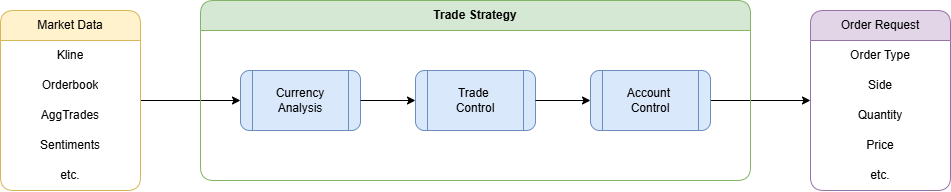
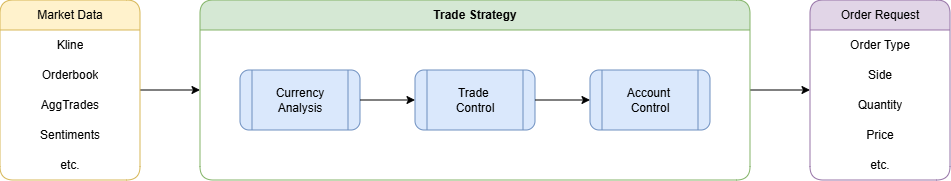
docs: update README - updated trade strategy image, testing functino expression renderings

diff --git a/README.md b/README.md
@@ -99,36 +99,25 @@ The image below shows a simplified diagram of the multiprocessing structure of A
   
 Each of the processes communicate with each other via `IPCAssistant` class defined in the `atmEta_IPC.py` module. Described below is the task and characterstic of each process.
 
-* **Main**  
-Upon the application launch, identifies the system requirements, determine number of simulators and analyzers to generate, configure IPCs, and generate and start processes.
+| Process                | Tasks |
+| :---:                  | :---: |
+| Main                   | Upon the application launch, identifies the system requirements, determine number of simulators and analyzers to generate, configure IPCs, and generate and start processes. |
+| GUI Manager            | Manages graphics and audio resources, interaction objects, and display objects to serve as a hub connecting the user and teh manage processes. |
+| Binance API Manager    | Responsible for market data fetch, stream connection, order placement, API rate-limit management, etc. It is one of the most vital parts of this application. |
+| Data Manager           | Keeps track of local market, account, simulation, and neural network data. Enables other managers to easily perform CRUD operations with the local DB. |
+| Trade Manager          | Manages all the tasks related to trading. These tasks include account connection (through the Binance API Manager), currency analysis and trade configuration management, trade logic determination, analyzer allocation, etc. |
+| Analyzer               |   |
+| Simulation Manager     | Manages all the simulation processes and history. |
+| Simulator              |  |
+| Neural Network Manager | It enables users to configure, initialize, and train models on historical market data which can later be imported by `Analyzers` or `Simulators` to provide an additional reference of market analysis. |
 
-* **GUI Manager**  
-Manages graphics and audio resources, interaction objects, and display objects to serve as a hub connecting the user and teh manage processes.
 
-* **Binance API Manager**  
-Responsible for market data fetch, stream connection, order placement, API rate-limit management, etc. It is one of the most vital parts of this application.
-
-* **Data Manager**  
-Keeps track of local market, account, simulation, and neural network data. Enables other managers to easily perform CRUD operations with the local DB.
-
-* **Trade Manager**  
-Manages all the tasks related to trading. These tasks include account connection (through the Binance API Manager), currency analysis and trade configuration management, trade logic determination, analyzer allocation, etc.
-
-* **Analyzer**  
-The number of analyzers are determined by the **main process** depending on the number of CPU cores and by the `ASRatio` in the `programConfig.config` file.  
-`number of analyzers = (number of CPU cores - 8) * ASRatio`  
+This is an experimental neural network module to examine any possible effectiveness of neural network models in trading. 
 When the user adds a currency analysis, the analysis task is allocated to the most relevant or free analyzer process by the **Trade Manager**. The analyzer then request market data from the **Binance API Manager** and **Data Manager**, perform analysis, and dispatch generated `PIP (Potential Investment Plan)` signals to the **Trade Manager**.
 
-* **Simulation Manager**  
-Manages all the simulation processes and history. When the user configures a simulation setup and sends a queue append request, **simulation manager** reformats the configuration, allocate the task to the most appropriate simulator process, and keeps track of the task process until complete.
-
-* **Simulator**  
-The number of simulators are determined by the **main process** depending on the number of CPU cores and by the `ASRatio` in the `programConfig.config` file (same as with analyzers, but inversly proportional).  
-`number of simulators = (number of CPU cores - 8) * (1 - ASRatio)`   
-dsad
-
-* **Neural Network Manager**  
-This is an experimental neural network module to examine any possible effectiveness of neural network models in trading. It enables users to configure, initialize, and train models on historical market data which can later be imported by `Analyzers` or `Simulators` to provide an additional reference of market analysis.
+The number of analyzers and simulators are determined by the number of CPU cores and `ASRatio` in the `programConfig.config` file.
+$$\text{Number of Analyzers}  = (\text{Number of CPU cores} - 8) \times \text{ASRatio}$$
+$$\text{Number of Simulators} = (\text{Number of CPU cores} - 8) \times (1 - \text{ASRatio})$$
 
 ---
 
@@ -487,20 +476,20 @@ Once the program starts, a GUI window will open up letting the user to nagivate 
       <br>
 
       2\. Configure currency analysis parameters.  
-      3\. Name the configuration and add (If left unnamed, it will be automatically generated in an indexed format).
+      3\. Name the configuration and add (If left unnamed, it will be automatically generated in an indexed format).  
       <img src="./docs/feat2_2.png">
       <br>
 
       4\. Select a position to generate analysis on from the market.
-      5\. Name the currency analysis instance and add (If left unnamed, it will be automatically generated in an indexed format).
+      5\. Name the currency analysis instance and add (If left unnamed, it will be automatically generated in an indexed format).  
       <img src="./docs/feat2_3.png">
       <br>
 
-      6\. View the list of currency analysis instances. To view the chart, click the ***VIEW CURRENCY ANALYSIS CHART*** button.
+      6\. View the list of currency analysis instances. To view the chart, click the ***VIEW CURRENCY ANALYSIS CHART*** button.  
       <img src="./docs/feat2_4.png">
       <br>
 
-      7\. View the selected currency analysis.
+      7\. View the selected currency analysis.  
       <img src="./docs/feat2_5.png">
       <br>
 
@@ -510,11 +499,11 @@ Once the program starts, a GUI window will open up letting the user to nagivate 
     <Summary><b><i> Adding a Trade Control Configuration </b></i></Summary>
       Adding a currency analysis requires a CAC and a target position.
 
-      1\. Navigate to AutoTrade page.
+      1\. Navigate to AutoTrade page.  
       <img src="./docs/feat3_1.png">
       <br>
 
-      2\. Configure trade control parameters, name the configuration, and add (If left unnamed, it will be automatically generated in an indexed format).
+      2\. Configure trade control parameters, name the configuration, and add (If left unnamed, it will be automatically generated in an indexed format).  
       <img src="./docs/feat3_2.png">
       <br>
 
@@ -523,21 +512,21 @@ Once the program starts, a GUI window will open up letting the user to nagivate 
   * <Details>
     <Summary><b><i> Backtesting & Results </b></i></Summary>
 
-      1\. Navigate to Simulation page.
+      1\. Navigate to Simulation page.  
       <img src="./docs/feat4_1.png">
       <br>
 
       2\. Determine simulation name and range (If left unnamed, it will be automatically generated in an indexed format).  
       Once all the configurations are completed, click the ***ADD*** button (Once step 3 and 4 are done).  
-      Once the simulation is completed, move to ***SIMULATION RESULT*** page either by pressing the ***VIEW RESULT*** button in the section or by navigating from **DASHBOARD**.
-      3\. Determine position-wise trade strategies; currency analysis, trade control, and account control.
-      4\. Determine account-wise parameters.
+      Once the simulation is completed, move to ***SIMULATION RESULT*** page either by pressing the ***VIEW RESULT*** button in the section or by navigating from **DASHBOARD**.  
+      3\. Determine position-wise trade strategies; currency analysis, trade control, and account control.  
+      4\. Determine account-wise parameters.  
       <img src="./docs/feat4_2.png">
       <br>
 
-      5\. Select a simulation to view
-      6\. View simulation result summary
-      7\. View simulation result in details.
+      5\. Select a simulation to view.  
+      6\. View simulation result summary.  
+      7\. View simulation result in details.  
       <img src="./docs/feat4_3.png">
       <br>
 
@@ -546,28 +535,28 @@ Once the program starts, a GUI window will open up letting the user to nagivate 
   * <Details>
     <Summary><b><i> Adding Accounts & Automate Trading </b></i></Summary>
 
-      1\. Navigate to Accounts page.
+      1\. Navigate to Accounts page.  
       <img src="./docs/feat5_1.png">
       <br>
 
       2\. Fill in accounts information and create.  
-      [ACTUAL ONLY] Enter Binance User ID.
+      [ACTUAL ONLY] Enter Binance User ID.  
       <img src="./docs/feat5_2.png">
       <br>
 
-      3\. View the selected account's information.
+      3\. View the selected account's information.  
       [ACTUAL ONLY] Activate the account by entering the API Key and the Secret Key provided by Binance.  
-      4\. View account asset information.
-      5\. View position-wise information and configure trade strategies here.
+      4\. View account asset information.  
+      5\. View position-wise information and configure trade strategies here.  
       <img src="./docs/feat5_3.png">
       <br>
 
-      6\. Navigate to Account History page.
+      6\. Navigate to Account History page.  
       <img src="./docs/feat5_4.png">
       <br>
 
-      7\. Select an account to view.
-      8\. Select from the viewer type to view either the historical account balance chart or trage logs.
+      7\. Select an account to view.  
+      8\. Select from the viewer type to view either the historical account balance chart or trage logs.  
       <img src="./docs/feat5_5.png">
       <br>
 
@@ -576,26 +565,26 @@ Once the program starts, a GUI window will open up letting the user to nagivate 
   * <Details>
     <Summary><b><i> Creating and Training a Neural Network Model </b></i></Summary>
 
-      1\. Navigate to Neural Network page.
+      1\. Navigate to Neural Network page.  
       <img src="./docs/feat6_1.png">
       <br>
 
-      2\. Determine the neural network name, type, control key, and initialization method.
-      3\. Configure neural network structure.
+      2\. Determine the neural network name, type, control key, and initialization method.  
+      3\. Configure neural network structure.  
       <img src="./docs/feat6_2.png">
       <br>
 
-      4\. Select a neural network to view.
-      5\. View the visualized neural network structure.
+      4\. Select a neural network to view.  
+      5\. View the visualized neural network structure.  
       <img src="./docs/feat6_3.png">
       <br>
 
-      6\. Select a historical market data to train the model on, and training parameters.
+      6\. Select a historical market data to train the model on, and training parameters.  
       <img src="./docs/feat6_4.png">
       <br>
 
-      7\. View training processes.
-      8\. View training result and performance test records.
+      7\. View training processes.  
+      8\. View training result and performance test records.  
       <img src="./docs/feat6_5.png">
       <br>
 
